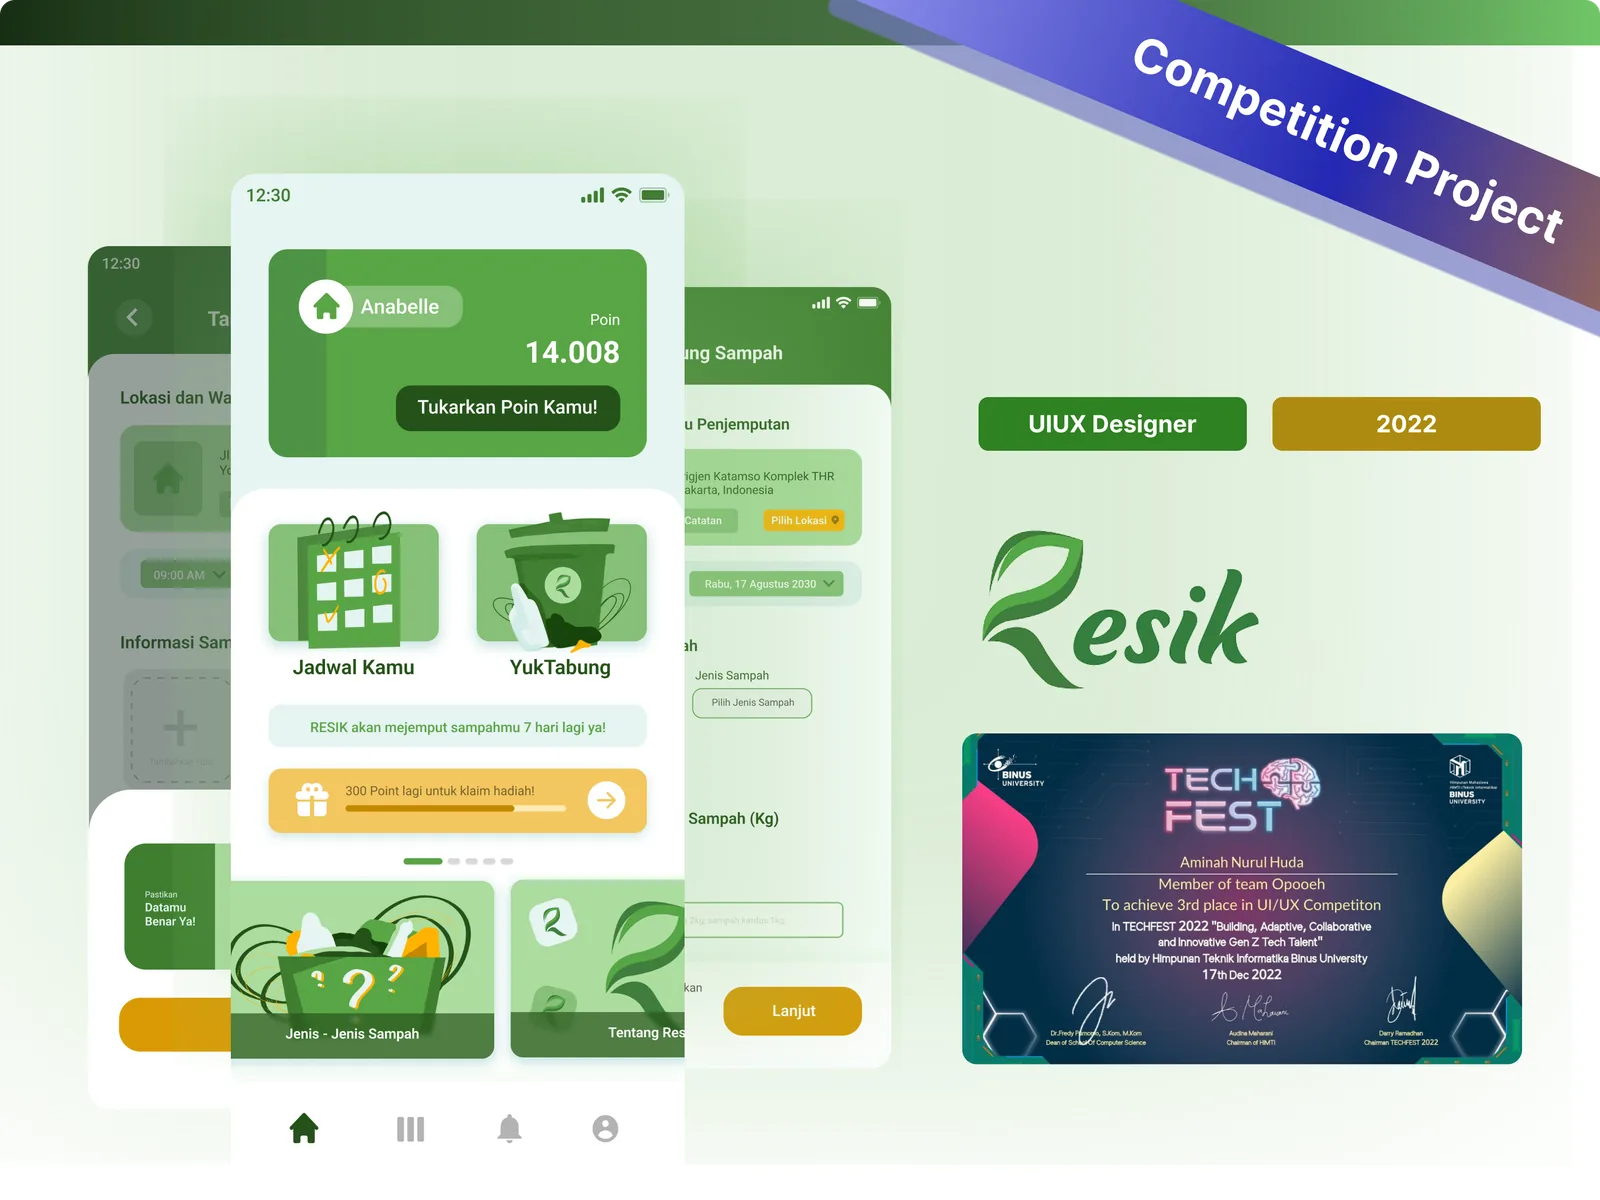
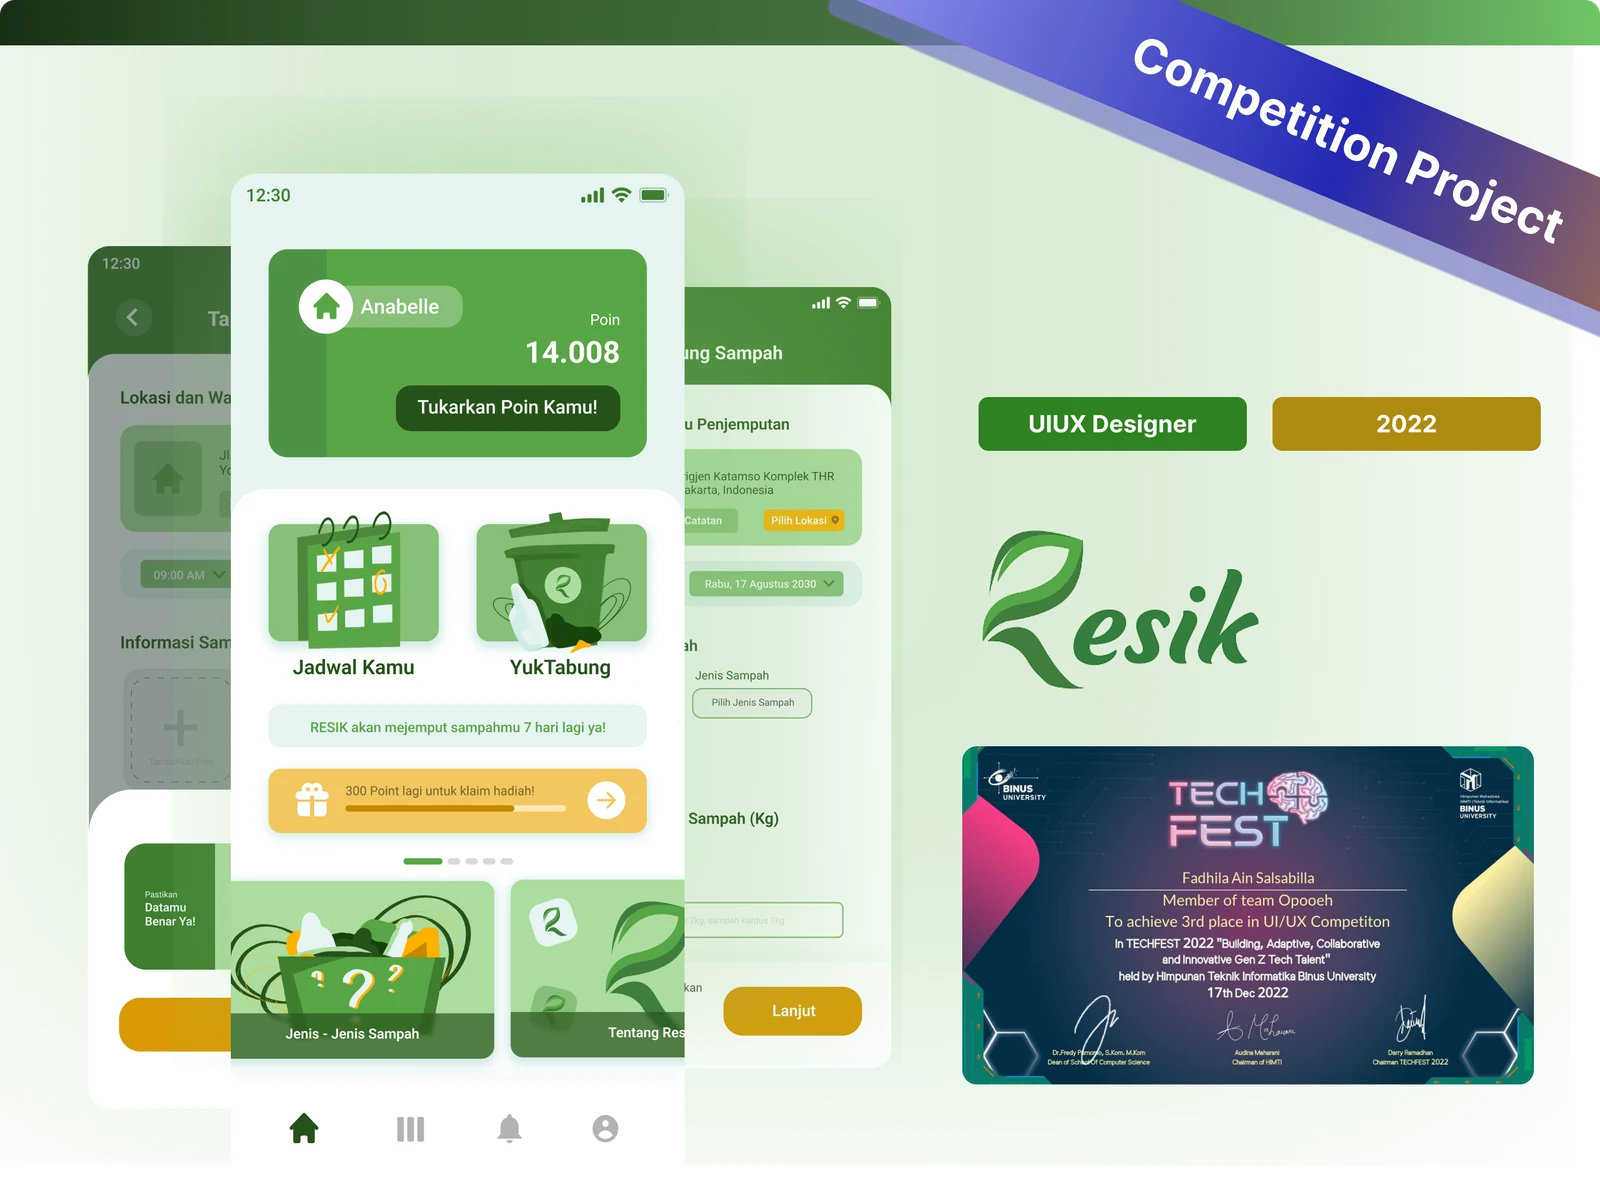
theme n cert

Changed region(s): [[0.5938, 0.5858, 0.9688, 0.925]]

diff --git a/index.html b/index.html
@@ -7,14 +7,11 @@
     <meta name="viewport" content="width=device-width, initial-scale=1.0" />
     <title>Affodilaj Fadil</title>
     <script>
-      // apply the theme before first paint so the page never flashes light
+      // apply the remembered theme before first paint; light is the default
       (function () {
-        var stored = localStorage.getItem("theme");
-        var dark =
-          stored === "dark" ||
-          (!stored &&
-            window.matchMedia("(prefers-color-scheme: dark)").matches);
-        if (dark) document.documentElement.classList.add("dark");
+        if (localStorage.getItem("theme") === "dark") {
+          document.documentElement.classList.add("dark");
+        }
       })();
     </script>
   </head>

diff --git a/src/components/ThemeToggle.jsx b/src/components/ThemeToggle.jsx
@@ -5,14 +5,10 @@ import nighticon from "../assets/night.webp";
 
 const STORAGE_KEY = "theme";
 
-// remembered choice first, otherwise follow the operating system
+// remembered choice first, otherwise light
 function readInitialTheme() {
   const stored = localStorage.getItem(STORAGE_KEY);
-  if (stored === "dark" || stored === "light") return stored;
-
-  return window.matchMedia("(prefers-color-scheme: dark)").matches
-    ? "dark"
-    : "light";
+  return stored === "dark" ? "dark" : "light";
 }
 
 export default function ThemeToggle() {

diff --git a/src/index.css b/src/index.css
@@ -4,7 +4,7 @@
 
 /* colour tokens read by tailwind.config.js; .dark swaps them site-wide */
 :root {
-  --c-bgwhite: #f1f1f1;
+  --c-bgwhite: #ffffff;
   --c-white-100: #ffffff;
   --c-white-40: rgba(255, 255, 255, 0.4);
   --c-purple-1: #3d0c54;
